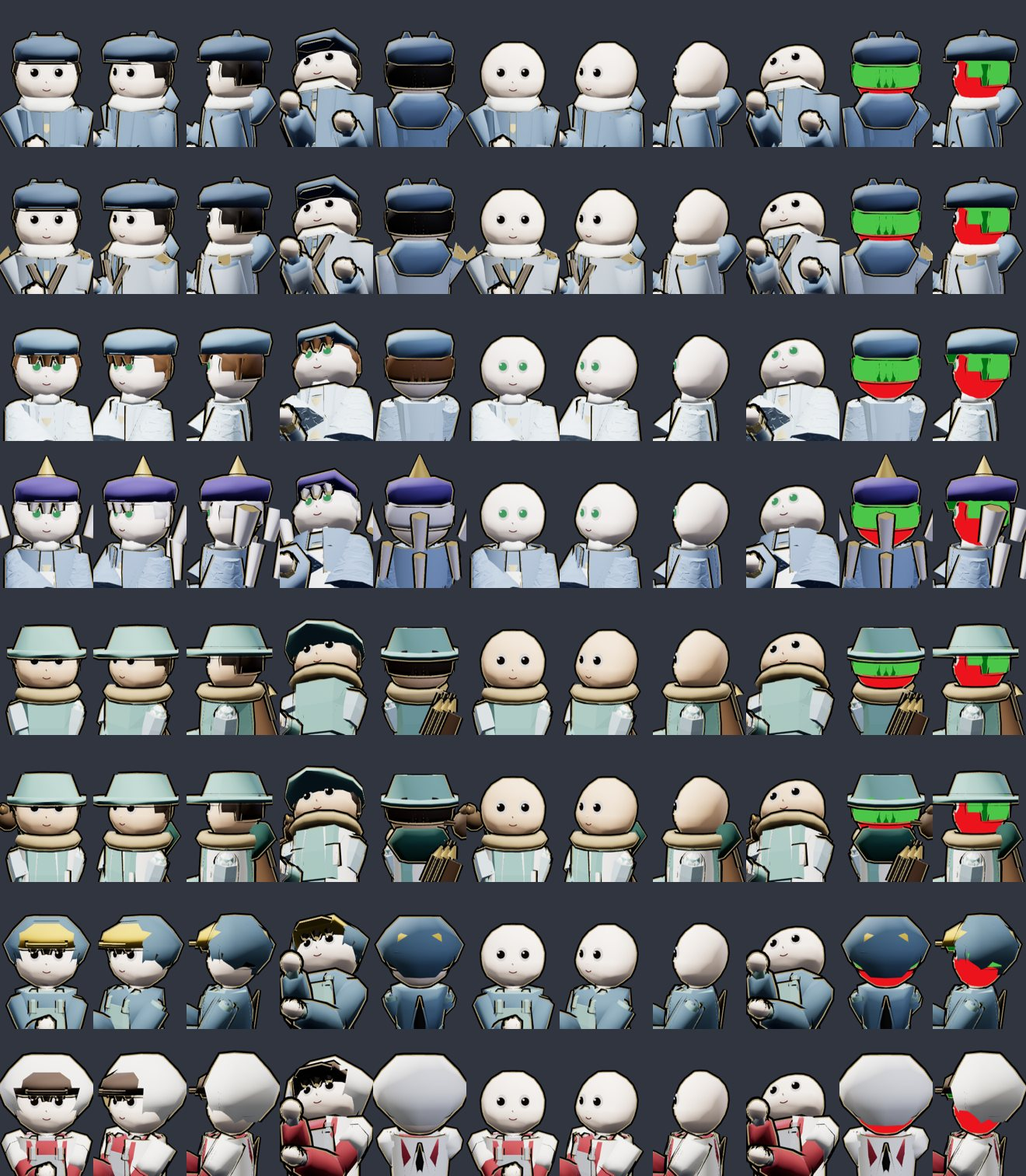
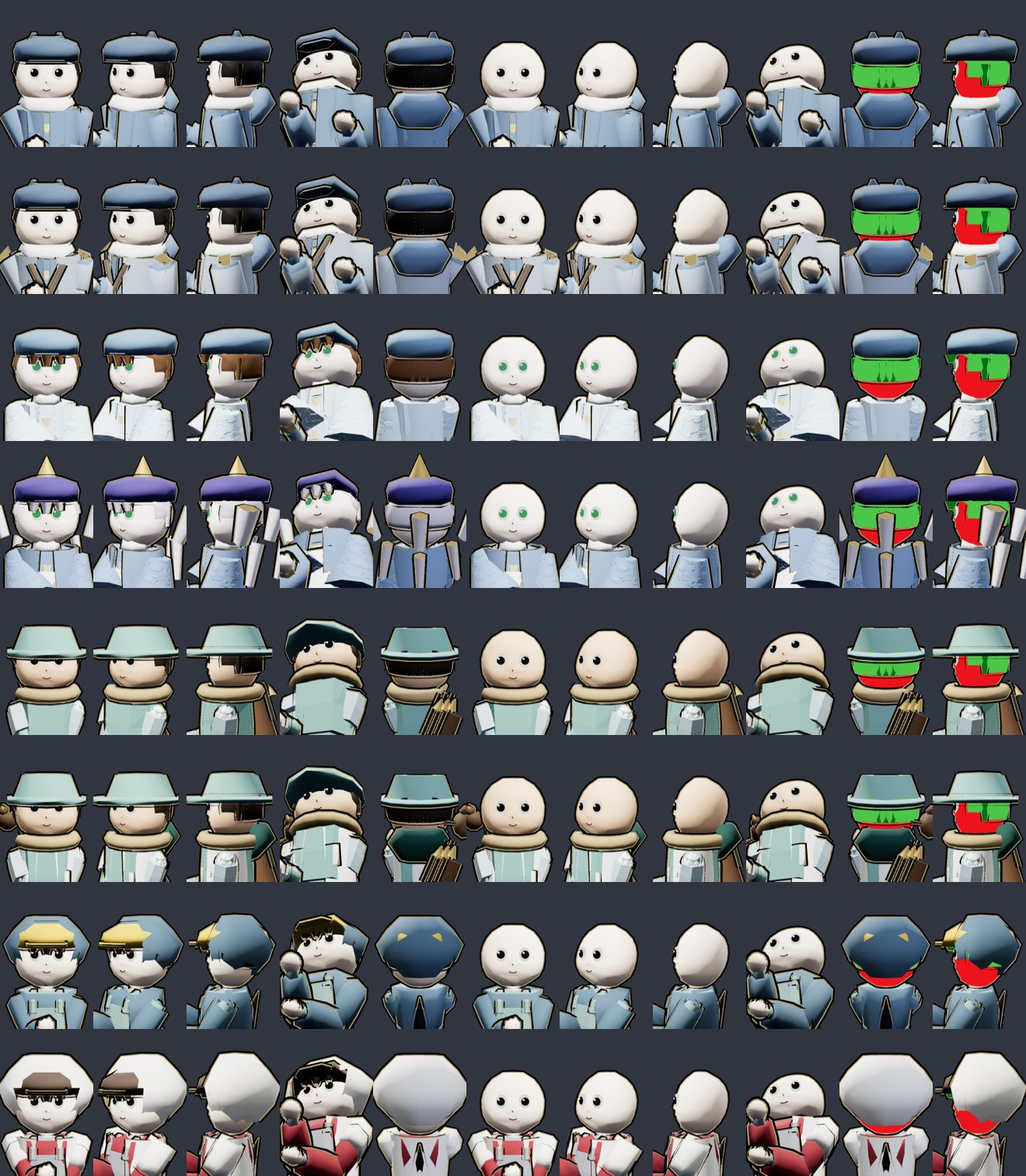
feat(character): T-2R-3 再修正 Review 反映（顔の前側だけ 20 点、鼻の下の段、頬の重みの分散、口の板を曲面に）
Claude-Session: https://claude.ai/code/session_01E5HtvtZnZXQW2TYqKrPCHQ

diff --git a/src/legacy/parts/05-rendering-rig.js b/src/legacy/parts/05-rendering-rig.js
@@ -747,37 +747,37 @@
   /* CHARACTER-VIS-002 T-2R-3(DEC-038 H-1 = O1: 既存の頭のメッシュの拡張): 4職(と上位4職)の頭。
      T-1 の頭(HEAD_SECTION_RATIOS_SOFT、8 点 × 5 段・奥行きが幅の 0.68 倍・顔の前面が平らな 1 枚)は、
      Human Review B「顔が平面的で輪郭が不自然」の原因だった(.ai/reports/CHARACTER-VIS-002-T2-human-review.md §2)。
-     ここでは同じ Loft の仕組みのまま、断面を 16 点 × 10 段にし、各段を「前半分・後ろ半分で別の深さと丸みを持つ
+     ここでは同じ Loft の仕組みのまま、断面を 20 点 × 12 段にし(T-2R-3 の最初は 16 点 × 10 段、下の再修正で増やした)、各段を「前半分・後ろ半分で別の深さと丸みを持つ
      超楕円」で作る(headSectionPointsV2):
        widthMul … 半幅(headR 比)。頬・目の高さ(0.54)が最大。被り物の下(0.72 より上)は帽子の内側に収まる幅
        frontMul … 顔の中心線の前への深さ(headR 比)。額 → 鼻筋 → 口元 → 顎先の横顔の線
        backMul  … 後頭部の深さ(headR 比)。T-1 の 0.83 より深く、丸い頭蓋
        nf / nb  … 前 / 後ろの丸みの指数(2 = 楕円。大きいほど角が張る)。頬・口元の段は 2.5 で頬がふっくら、
                   額・頭頂・顎は 2.0〜2.2 で丸い。顔は平らな板にならず、単純な球にもならない
-       socket   … 目の高さの段で、鼻筋の両側(16 点の 1 番目と 15 番目、目の中心の少し外)を奥へ下げる量(headR 比)。
+       socket   … 目の高さの段で、鼻筋の両側(11.25°・22.5°・33.75° に 0.5 / 1 / 0.6、目の中心のまわり)を奥へ下げる量(headR 比)。
                   鼻筋が残り、目のまわりに奥行きができる
      寸法はすべて o.width(= headR)基準で、o.depth(HEAD_DEPTH_MUL)は使わない(奥行きは frontMul / backMul で直接
      決める。HEAD_DEPTH_MUL を変えても 4職の頭は変わらない: T-2R-3 Review N-3)。
      影の旅人・敵・NPC は既定の HEAD_SECTION_RATIOS のまま(共通の関数の既定値は変えない: T-0)。
      髪の殻・顔の部品・被り物の判定は headSectionPoints / headOutlineAt / headRatioAt を通して自動で追従する */
-  const HEAD_RING_POINTS_V2 = 16;
   /* T-2R-3 再修正(Human Review 2026-11-28: 45° で頬の膨らみと奥行き、横顔で鼻・口元・顎の前後の立体が不足)。
      頭蓋・後頭部・正面の輪郭・下からの接続(Human が合格とした部分)は変えず、顔の部分だけを足す:
-       center     … 顔の中心線の点(k = 0)だけを前へ出す量(headR 比)。横顔の線: 顎先 → 顎の窪み → 下唇 → 口元 →
-                    鼻の下 → 鼻先の高さ(最も前)→ 鼻の付け根(目の高さ)→ 眉 → 額
-       centerSide … center のうち鼻筋の両隣(k = 1・15)にも掛ける割合(口元は広く、鼻は狭く)
-       cheek      … 45°(k = 2・14)の点を外へ押し出す量(headR 比、67.5° の k = 3・13 には 0.3 倍)。頬の膨らみ
-     顔の中心線と 45° 付近だけを動かすので、横(90°)・後ろ・帽子の下の形と髪の殻の関係は変わらない。
-     下唇(0.24)と鼻の下(0.36)の段を足し、顔の前後の起伏を置く(10 段 → 12 段) */
+       center     … 顔の中心線(0°)を前へ出す量(headR 比)。横顔の線: 顎先 → 顎の窪み → 下唇 → 口元(膨らみ)→
+                    鼻の下(鼻先より奥へ引っ込む段)→ 鼻先(最も前)→ 鼻の付け根(目の高さ)→ 眉 → 額
+       centerSide … center のうち 11.25° に掛ける割合(22.5° にはその 2 乗)。口元は広く(0.55〜0.62)、鼻は細く(0.25)
+       cheek      … 頬を外へ押し出す量(headR 比)。22.5°・33.75°・45°・67.5° に 0.35 / 0.75 / 1 / 0.45 で分ける
+     重みは headV2Weights。顔の前側(67.5° より前)だけを動かすので、横(90°)・後ろ・帽子の下(0.66 より上は不変)の形と
+     髪の殻の関係は変わらない。下唇(0.24)と鼻の下(0.36)の段を足し(10 段 → 12 段)、Review M-1 で顔の前側だけ点を
+     足した(16 → 20 点: ±11.25°・±33.75°)。追加の段の幅・後ろの深さ・指数は上下の段の中間(横・後ろの差 ≤ 0.005 headR) */
   const HEAD_SECTIONS_V2 = {
     chinBase:  { yFrac:0.00, widthMul:0.40, frontMul:0.34, backMul:0.30, nf:2.0, nb:2.0, socket:0,     center:0,     centerSide:0,    cheek:0     }, // 顎の下
-    chin:      { yFrac:0.08, widthMul:0.64, frontMul:0.56, backMul:0.52, nf:2.2, nb:2.0, socket:0,     center:0.045, centerSide:0.30, cheek:0     }, // 顎先(少し前へ、小さく丸い)
-    jaw:       { yFrac:0.18, widthMul:0.89, frontMul:0.70, backMul:0.70, nf:2.6, nb:2.1, socket:0,     center:-0.01, centerSide:0.30, cheek:0.01 }, // 顎の窪み(下唇から顎先へ後ろへ下がる)・下頬
-    lowerLip:  { yFrac:0.24, widthMul:0.95, frontMul:0.73, backMul:0.77, nf:2.6, nb:2.1, socket:0,     center:0.05, centerSide:0.40, cheek:0.025 }, // 下唇
-    mouth:     { yFrac:0.30, widthMul:1.00, frontMul:0.76, backMul:0.84, nf:2.6, nb:2.1, socket:0,     center:0.075, centerSide:0.45, cheek:0.045 }, // 口元(前への膨らみ)・頬
-    subNose:   { yFrac:0.36, widthMul:1.03, frontMul:0.77, backMul:0.88, nf:2.5, nb:2.1, socket:0,     center:0.08, centerSide:0.35, cheek:0.065 }, // 鼻の下(口元と鼻をつなぐ)
-    noseBase:  { yFrac:0.42, widthMul:1.05, frontMul:0.78, backMul:0.92, nf:2.4, nb:2.1, socket:0,     center:0.085, centerSide:0.30, cheek:0.07 }, // 鼻先の高さ(横顔で最も前)・頬骨
-    eye:       { yFrac:0.54, widthMul:1.06, frontMul:0.76, backMul:0.95, nf:2.3, nb:2.1, socket:0.040, center:0.04, centerSide:0.00, cheek:0.035 }, // 鼻の付け根・眼窩(最大幅)
+    chin:      { yFrac:0.08, widthMul:0.64, frontMul:0.56, backMul:0.52, nf:2.2, nb:2.0, socket:0,     center:0.075, centerSide:0.40, cheek:0     }, // 顎先(少し前へ、小さく丸い)
+    jaw:       { yFrac:0.18, widthMul:0.89, frontMul:0.70, backMul:0.70, nf:2.6, nb:2.1, socket:0,     center:-0.03, centerSide:0.45, cheek:0.02 }, // 顎の窪み(下唇から顎先へ後ろへ下がる)・下頬
+    lowerLip:  { yFrac:0.24, widthMul:0.945, frontMul:0.73, backMul:0.77, nf:2.6, nb:2.1, socket:0,     center:0.04, centerSide:0.55, cheek:0.035 }, // 下唇
+    mouth:     { yFrac:0.30, widthMul:1.00, frontMul:0.76, backMul:0.84, nf:2.6, nb:2.1, socket:0,     center:0.06, centerSide:0.62, cheek:0.055 }, // 口元(前への膨らみ)・頬
+    subNose:   { yFrac:0.36, widthMul:1.025, frontMul:0.77, backMul:0.88, nf:2.5, nb:2.1, socket:0,     center:0.035, centerSide:0.55, cheek:0.065 }, // 鼻の下(口元と鼻をつなぐ)
+    noseBase:  { yFrac:0.42, widthMul:1.05, frontMul:0.78, backMul:0.92, nf:2.4, nb:2.1, socket:0,     center:0.1, centerSide:0.25, cheek:0.065 }, // 鼻先の高さ(横顔で最も前)・頬骨
+    eye:       { yFrac:0.54, widthMul:1.06, frontMul:0.76, backMul:0.95, nf:2.3, nb:2.1, socket:0.040, center:0.05, centerSide:0.15, cheek:0.035 }, // 鼻の付け根・眼窩(最大幅)
     brow:      { yFrac:0.66, widthMul:1.00, frontMul:0.74, backMul:0.93, nf:2.2, nb:2.1, socket:0.010, center:0,     centerSide:0,    cheek:0     }, // 眉の骨(眉は描かない: E-3 = B)
     forehead:  { yFrac:0.78, widthMul:0.88, frontMul:0.64, backMul:0.84, nf:2.1, nb:2.1, socket:0,     center:0,     centerSide:0,    cheek:0     }, // 額(帽子の内側)
     upperHead: { yFrac:0.89, widthMul:0.70, frontMul:0.46, backMul:0.64, nf:2.0, nb:2.0, socket:0,     center:0,     centerSide:0,    cheek:0     },
@@ -786,31 +786,43 @@
   const isHeadV2 = r => r && r.frontMul != null;
   const sgnPow = (v, e) => Math.sign(v) * Math.pow(Math.abs(v), e);
   /* 16 点の断面(巻き順は HEAD_HEX_TEMPLATE と同じ「前 → 左 → 後ろ → 右」。k = 0 が顔の中心線) */
+  /* 断面の点の角度(顔の中心線からの度。巻き順は HEAD_HEX_TEMPLATE と同じ「前 → 左 → 後ろ → 右」)。
+     T-2R-3 再修正(Review M-1): 顔の前側だけ点を足す(±11.25°・±33.75°)。横・後ろ(67.5° より後ろ)の角度は 16 点の時と同じ */
+  const HEAD_V2_ANGLES = [0, 11.25, 22.5, 33.75, 45, 67.5, 90, 112.5, 135, 157.5, 180];
+  const HEAD_V2_RING_DEGS = (()=>{ const a = [...HEAD_V2_ANGLES]; for(let i=HEAD_V2_ANGLES.length-2;i>=1;i--) a.push(360 - HEAD_V2_ANGLES[i]); return a; })();
+  const HEAD_RING_POINTS_V2 = HEAD_V2_RING_DEGS.length;   // 20
+  /* 角度ごとの重み(左右対称、度は 0〜180):
+       center … 中心線を前へ(0° = 1、11.25° = centerSide、22.5° = centerSide の 2 乗: 鼻筋は細く、口元は広く)
+       cheek  … 頬を外へ(22.5° = 0.35、33.75° = 0.75、45° = 1、67.5° = 0.45: 1 点に偏らず丸く。Review S-1)
+       socket … 眼窩を奥へ(11.25° = 0.5、22.5° = 1、33.75° = 0.6) */
+  function headV2Weights(deg, r){
+    const cs = r.centerSide || 0;
+    return {
+      center: deg === 0 ? 1 : deg === 11.25 ? cs : deg === 22.5 ? cs*cs : 0,
+      cheek:  deg === 22.5 ? 0.35 : deg === 33.75 ? 0.75 : deg === 45 ? 1 : deg === 67.5 ? 0.45 : 0,
+      socket: deg === 11.25 ? 0.5 : deg === 22.5 ? 1 : deg === 33.75 ? 0.6 : 0,
+    };
+  }
   function headSectionPointsV2(o, r){
-    const W = o.width, n = HEAD_RING_POINTS_V2;
+    const W = o.width;
     const hw = W*r.widthMul, hf = W*r.frontMul, hb = W*r.backMul;
-    const pts = [];
-    for(let k=0;k<n;k++){
-      const th = -k*Math.PI*2/n, sn = Math.sin(th), cs = Math.cos(th);
+    return HEAD_V2_RING_DEGS.map(degFull=>{
+      const th = -degFull*Math.PI/180, sn = Math.sin(th), cs = Math.cos(th);
       const front = cs >= 0;
       const e = 2/(front ? r.nf : r.nb);
       let x = hw*sgnPow(sn, e);
       let z = (front ? hf : hb)*sgnPow(cs, e);
-      if(r.socket && (k === 1 || k === n-1)) z -= W*r.socket;
-      // 顔の中心線(と鼻筋の両隣)を前へ: 鼻先・口元・顎の前後の起伏(T-2R-3 再修正)
-      if(r.center){
-        if(k === 0) z += W*r.center;
-        else if(k === 1 || k === n-1) z += W*r.center*(r.centerSide || 0);
-      }
-      // 頬の膨らみ: 45°(と 67.5° に少し)の点を外へ
-      if(r.cheek){
-        const f = (k === 2 || k === n-2) ? 1 : (k === 3 || k === n-3) ? 0.3 : 0;
-        if(f){ const len = Math.hypot(x, z) || 1; x += x/len*W*r.cheek*f; z += z/len*W*r.cheek*f; }
-      }
-      pts.push([x, z]);
-    }
-    return pts;
+      const deg = degFull > 180 ? 360 - degFull : degFull;
+      const w = headV2Weights(deg, r);
+      if(r.socket) z -= W*r.socket*w.socket;
+      // 顔の中心線を前へ: 鼻先・口元・顎の前後の起伏(T-2R-3 再修正)
+      if(r.center) z += W*r.center*w.center;
+      // 頬の膨らみ
+      if(r.cheek && w.cheek){ const len = Math.hypot(x, z) || 1; x += x/len*W*r.cheek*w.cheek; z += z/len*W*r.cheek*w.cheek; }
+      return [x, z];
+    });
   }
+
 
   /* makeCharacterHead({width, depth, height}): makeCharacterForearm()と
      同じ考え方の、頭部専用Loft生成ヘルパー。widthとdepthは半幅・半厚みの
@@ -893,7 +905,8 @@
     const pts = headSectionPointsV2(o, r);
     const n = pts.length;
     // 顔側(k = 0 → n/4 と k = 0 → 3n/4)の点を |x| の小さい順に並べた片側の列(左右対称)
-    const half = []; for(let k=0;k<=n/4;k++) half.push([Math.abs(pts[k][0]), pts[k][1]]);
+    const half = []; HEAD_V2_RING_DEGS.forEach((d, k)=>{ if(d <= 90) half.push([Math.abs(pts[k][0]), pts[k][1]]); });
+    half.sort((p, q)=> p[0] - q[0]);
     const frontZAt = (x)=>{
       const ax = Math.abs(x);
       for(let i=0;i<half.length-1;i++){

diff --git a/tests/character-visual-budget.spec.js b/tests/character-visual-budget.spec.js
@@ -93,16 +93,17 @@ const PROBE = `
    8 点 × 4 段 → 16 点 × 7 段にした。描画の数(本体・全体)と Material は変わらない。三角形は 1 人 +1600
    (頭 +240・髪の殻 +160 = +400 が、本体・輪郭線 2 枚・X 線シェルの 4 つで描かれる)。影の旅人は不変。
    T-2R-3 再修正(Human Review: 45° の頬・横顔の鼻・口元・顎): 頭に下唇・鼻の下の 2 段を足し 10 段 → 12 段、
-   三角形はさらに 1 人 +256(頭 +64 × 4)。T-2 からの合計 +1856 */
+   三角形はさらに 1 人 +256(頭 +64 × 4)。Review M-1 で顔の前側だけ点を足し(±11.25°・±33.75°、16 → 20 点。
+   横・後ろの点は同じ)、頭 +92・髪の殻 +60 = +152 × 4 = +608。T-2 からの合計 +2464(剣士 14,916 → 17,380) */
 const BUDGET = [
-  {key:'warrior', job:null,           name:'剣士',         body:82, total:292, tris:16772, mats:21},
-  {key:'warrior', job:'battleKnight', name:'戦騎士',       body:91, total:328, tris:18348, mats:24},
-  {key:'mage',    job:null,           name:'魔法使い',     body:74, total:269, tris:17104, mats:20},
-  {key:'mage',    job:'archmage',     name:'魔導士',       body:89, total:329, tris:18512, mats:22},
-  {key:'archer',  job:null,           name:'弓師',         body:78, total:285, tris:17252, mats:23},
-  {key:'archer',  job:'hawkEye',      name:'鷹の目',       body:88, total:325, tris:19076, mats:27},
-  {key:'rogue',   job:null,           name:'盗賊',         body:80, total:293, tris:16488, mats:24},
-  {key:'rogue',   job:'berserker',    name:'バーサーカー', body:85, total:313, tris:17264, mats:26},
+  {key:'warrior', job:null,           name:'剣士',         body:82, total:292, tris:17380, mats:21},
+  {key:'warrior', job:'battleKnight', name:'戦騎士',       body:91, total:328, tris:18956, mats:24},
+  {key:'mage',    job:null,           name:'魔法使い',     body:74, total:269, tris:17712, mats:20},
+  {key:'mage',    job:'archmage',     name:'魔導士',       body:89, total:329, tris:19120, mats:22},
+  {key:'archer',  job:null,           name:'弓師',         body:78, total:285, tris:17860, mats:23},
+  {key:'archer',  job:'hawkEye',      name:'鷹の目',       body:88, total:325, tris:19684, mats:27},
+  {key:'rogue',   job:null,           name:'盗賊',         body:80, total:293, tris:17096, mats:24},
+  {key:'rogue',   job:'berserker',    name:'バーサーカー', body:85, total:313, tris:17872, mats:26},
 ];
 const WANDERER = {
   mesh: {body:82, total:322, tris:15508, mats:16},

diff --git a/src/legacy/parts/06-player-enemy.js b/src/legacy/parts/06-player-enemy.js
@@ -1009,8 +1009,18 @@
       const MOUTH_W = headR*0.13, mouthPts = [];
       for(let i=0;i<=8;i++){ const t = -1 + 2*i/8; mouthPts.push({x:t*MOUTH_W, y:-(1 - t*t)*MOUTH_W*0.35}); }
       for(let i=8;i>=0;i--){ const t = -1 + 2*i/8; mouthPts.push({x:t*MOUTH_W*0.9, y:-(1 - t*t)*MOUTH_W*0.35 + MOUTH_W*0.16}); }
-      const mouth = new THREE.Mesh(makePlate(mouthPts, {thickness:0.004}), new THREE.MeshBasicMaterial({color:0x6a2e2a}));
-      mouth.position.set(0, yAt(0.27), headOut(0.27).frontZ + 0.002);
+      const mouthGeo = makePlate(mouthPts, {thickness:0.004});
+      /* 4職(T-2R-3 再修正、Review S-2): 顔の面は中心線から左右へ奥へ回るので、平らな板のままでは両端が面から浮く。
+         板の頂点を、その横位置の顔の面の深さ(frontZAt)に合わせて奥へ曲げる */
+      const mouthOut = headOut(0.27);
+      if(mouthOut.frontZAt){
+        const pa = mouthGeo.attributes.position;
+        for(let i=0;i<pa.count;i++) pa.setZ(i, pa.getZ(i) + mouthOut.frontZAt(pa.getX(i)) - mouthOut.frontZ);
+        pa.needsUpdate = true;
+        mouthGeo.computeVertexNormals();
+      }
+      const mouth = new THREE.Mesh(mouthGeo, new THREE.MeshBasicMaterial({color:0x6a2e2a}));
+      mouth.position.set(0, yAt(0.27), mouthOut.frontZ + 0.002);
       mouth.userData.noOutline = true;
       head.add(mouth);
       playerMixerParts.faceParts = [nose, mouth];

diff --git a/.ai/reports/CHARACTER-VIS-002-T2R3b-review.md b/.ai/reports/CHARACTER-VIS-002-T2R3b-review.md
@@ -1,0 +1,87 @@
+# CHARACTER-VIS-002 T-2R-3 再修正 Review
+
+## Review Target
+| 項目 | 値 |
+| --- | --- |
+| Task ID | CHARACTER-VIS-002（T-2R-3 再修正、Human Review 2026-11-28 iPhone の 45°・横顔 未達への対応）|
+| Branch | claude/character-vis-002-t2 |
+| Reviewed SHA | `9e57e29` |
+| Diff range | `2b33343..9e57e29` |
+| Independence | 別 Agent・別セッション（Implementer の判断過程は入力にしていない）|
+
+## Result
+**CHANGES_REQUIRED**
+
+技術面（メッシュの妥当性・合格項目の保持・貫通・襟との干渉・予算・テスト）は問題ない。差し戻しの理由は1点で、Human の指示した受入条件「横顔で鼻・口元・顎の前後の立体があり、鼻・口が貼り付けに見えない」を、比較画像からは満たしていると判断できないこと（M-1）。45° は改善しているが、頬が角張って見え、下顔面に多角形の陰影が出る（S-1）。前回の Round では Reviewer PASS の後に Human が同じ項目を「未達」とした。そのため今回は、造形の評価を Human の目視確認に先送りしない。
+
+## 1. 合格項目の保持（数値。変更前・後の Loft の面を、各高さで頂点を線形補間して比べた。単位 headR）
+| 範囲 | 結果 |
+| --- | --- |
+| 顎の下 0.00 | 変化なし（中心 0.34、最大幅 0.40）→ 下からの接続は不変 |
+| 0.66 以上（眉の骨・額・帽子の下 0.72 以上・頭頂）| **全 16 点で完全に不変**。帽子・髪の殻との関係は変わらない |
+| 横 90°（k=4/12）・後ろ（k=5〜11）| 元からある段の高さでは不変。ただし新しい段（0.24 / 0.36）とその間（0.21〜0.39）では **最大 +0.005 外へ**。新しい段の値が、前後の段の中間の超楕円と一致していないため（例: subNose widthMul 1.03。中間なら 1.025）|
+| 正面の輪郭（各高さの最大の \|x\|）| 0.24 と 0.36 で +0.005、0.21〜0.39 で +0.002〜0.003。他の高さは不変。頬を押した点（k=3 で \|x\|≈1.00）は k=4（1.05）を越えないので、正面の輪郭は k=4 のまま |
+| 顔の中心線（k=0）| 0.08 で +0.045、0.24 で +0.050、0.30 で +0.075、0.42 で +0.085、0.54 で +0.040、0.60 で +0.020。0.18 は −0.010 |
+| 断面の凸性・巻き順 | 12 段すべてで、k の順の x が単調。頬の押し（k=2/3）は x を追い越さず、自己交差は無い。凹みは目の段 0.54 の k=0→1→2（cross −0.006）だけで、意図した眼窩の socket |
+
+→ Human が合格とした正面・下から・後頭部・全身は、実質的に保たれている（差は 0.005 headR 以下）。ただし記録の「横（90°）・後頭部…の点は動かさない」は厳密には正しくない（S-3）。
+
+## 2. 顔の部品と新しい面（`headOutlineAt` の多角形の上で計算。headR 比）
+- 口（`06-player-enemy.js:1013`、yFrac 0.27、幅 ±0.13）: 板の両端と面との隙間が **0.019 → 0.029 に増えた**。中心線だけを前へ出したため、k=0→1 の傾きが急になった。前回の Review N-2（「口がわずかに浮く ≤0.015」）より悪化している（S-2）
+- 鼻（`:1005`、0.40）: 中心線の点に追従している（frontZ 0.777 → 0.860）。四角錐の底は面に埋まり、浮きは無い
+- 目（yFrac≈0.533）: 目の段の centerSide は 0。中心線を 0.04 前へ出した分、面の高さは内側の縁で +0.025、中心で +0.009、外側の縁で +0.007 上がる。白目の板は中心の値（+0.009）で動くので、**内側の縁が面に対して約 0.016 沈む**。白目の前面には元々 0.024〜0.033 の余裕があり、face-preview も PASS なので、今は問題としない（N-1）
+- `headOutlineAtV2.frontZ = pts[0][1]`（`05-rendering-rig.js:909`）: 実際の中心線の点と一致する。headRatioAt は center / centerSide / cheek も線形補間するので、段の間の高さ（0.27・0.40）でも Loft の面と一致することを確認した
+
+## 3. 陰影・輪郭線
+- Loft は index 付きで `computeVertexNormals`（`src/render/lowpoly-primitives.js`）。滑らかな陰影なので、中心線の 1 点だけを出しても、折れ目がはっきり線になるわけではない
+- ただし画像（`t2r3b-profile-before-after.jpg`）の変更後では、45° と正面の下顔面（口〜顎の高さ）に、多角形の帯状の陰影が増えている。45° の輪郭線は目〜鼻の高さで角が立ち、頬の膨らみが「丸み」ではなく「角」に見える。k=2 の 1 点を最大 0.07 外へ押し、k=3 には 0.3 倍しか掛けないため、16 点の 45° の頂点が尖る
+- 横顔の輪郭線（k=0）は段ごとの折れ線。12 段の間隔（0.06〜0.12 yFrac）では、鼻先を形づくる点が 0.42 の 1 点しかない
+
+## 4. 襟・首巻きとの干渉（頭の向きの限界）
+- 顔の確認のプレビューで 8 職について、headLookPivot を yaw ±38°・0、pitch ±20°・0 の 9 姿勢に回した。頭以外の描画メッシュの頂点のうち、頭（肌）の閉じた Loft の内側にあるものを光線の偶奇で数え、変更前（`2b33343`）と変更後で比べた
+- **8 職 × 9 姿勢のすべてで、変更前と同じ数**（中身は首の円柱の上端と、元からある襟の 1〜6 点）。顎・口元を前へ出したことで新しく食い込む襟・首巻き・マフラー・毛皮の襟・タートルネック・覆面は無い
+- 限界: この検査は「襟の頂点が頭の中に入る」形だけを見ている。襟の面の内側を頭の頂点が通る形は見ていない。顎の中心線の移動は最大 +0.045（yFrac 0.08、k=0/1 だけ）と小さく、画像の帽子あり 45°・横でも干渉は見えない
+
+## 5. 予算・記録
+- 段 12 × 16 点: 側面は (12−1)×16×2 = 352（前は 288）、差 +64。本体・輪郭線 2 枚・X 線の 4 つで +256。BUDGET の 8 行がすべて +256 であることを確認した。剣士 14,916 + 1,856 = 16,772 で、記録と一致
+- character-visual-budget.spec.js（影の旅人の不変を含む）PASS
+- 記録の表（中心線の深さ frontMul + center）は、計算値と一致する
+- Status History の最後の行は `REVIEWING → IMPLEMENTING`。その後の TESTING / REVIEWING の行は、Orchestrator が後で追記する前提（N-2）
+
+## 6. 造形の評価（画像からの率直な意見）
+- **正面**: 輪郭線はほぼ同じで、合格を保っている。下顔面に陰影の帯が少し増えたが、輪郭は崩れていない
+- **45°**: 頬骨から鼻の高さで前後の厚みが増し、「平らな顔」からは前進している。ただし頬は、45° の頂点 1 点が角として出る見え方。Human の言う「自然な丸み、頬骨から頬への滑らかな面、頬からこめかみ・顎への自然なつながり」には届いていない。**部分的に改善**
+- **横顔**: 変更前・後の差は、鼻の高さで輪郭がわずかに前へ出る程度で、シルエットはほぼ卵形のままに見える。中心線の値は 口元 0.835 → 鼻の下 0.85 → 鼻先 0.865 と単調に増えるだけ。鼻の下が鼻先より奥へ引っ込む段（鼻の裏側）が無いので、横顔では「鼻」と「口元」が区別されず、中顔面がなだらかに前へ傾いた形になる。鼻は四角錐の部品が面に載るだけで、Human が避けたい「貼り付け」の見え方が残る。口の両端は前より浮いた。下唇 → 顎の窪み → 顎先の起伏（0.78 → 0.69 → 0.605）は数値上はあるが、差が 0.02 程度のため画像ではほとんど読めない。**未達のままと判断する**
+- 実装者の記録にあるとおり、中心線を強く出すと、16 点では鼻先が尖り、折れ線が出る。これは 16 点・中心線の 1 点だけで鼻を作ろうとすることの限界で、値の調整だけでは解決しにくい。Human は顔の頂点を局所的に増やすことを許可している
+
+## Required Changes
+| # | ファイル / 箇所 | 問題（根拠）| 期待する状態 | 確認方法 |
+| --- | --- | --- | --- | --- |
+| M-1 | `src/legacy/parts/05-rendering-rig.js:772-813`（HEAD_SECTIONS_V2 の顔の段、headSectionPointsV2 の k=0/1 の処理）| 横顔で鼻・口元・顎の前後の立体が読めない（Human の指示: 鼻の付け根と先の差、丸い鼻先、鼻 → 口の滑らかなつながり、口元の前への膨らみ、下唇 → 顎の後退、貼り付けに見えない鼻・口）。中心線が口元 → 鼻先で単調で、鼻の下の後退が無い。変更前・後の横顔の画像の差が小さい | 横顔の輪郭線で「鼻先（最前）→ 鼻の下で一段奥へ → 口元で再び少し前 → 下唇 → 顎の窪み → 顎先」が読める。そのために、顔の前側の頂点を局所的に増やすことを推奨する。たとえば 0.18〜0.60 の段で ±11.25° の点を足す、または前側に点を寄せた 20〜24 点にする。鼻の段も足す（鼻先の下に鼻の下の段を置き、鼻先より奥にする）。こうすると、鼻筋を細く・高く（例 +0.12〜0.15）しても折れ目が出にくい。頭全体を前へ出したり大きくしたりはしない。0.66 以上・顎の下・90°・後ろは今回と同じく不変に保つ | 同じカメラ・倍率の横顔・45° の前 / 後の比較画像。表 1 と同じ方法で、合格項目の点の差が 0.005 以下であることを数値で確認。head-hair-penetration・budget（三角形の上限を更新）・face-preview・clothing・battle-knight の E2E、unit |
+
+## should-fix
+- **S-1** `05-rendering-rig.js:806-809`（頬の押し）: 45° の頂点 1 点（k=2/14）だけに最大 0.07 を掛け、k=3 は 0.3 倍、k=1 は 0 なので、45° で角が立ち、下顔面に多角形の陰影が出る。押す量を k=1〜3 に滑らかに分ける（例 0.5 / 1 / 0.6）か、M-1 で点を増やすときに頬の点も配置する。正面の輪郭線（k=4）を越えないことを数値で確認する
+- **S-2** `src/legacy/parts/06-player-enemy.js:1013`（口）: 板の両端の浮きが 0.019 → 0.029 headR に増えた。両端の z を `headOut(0.27).frontZAt(x)` に沿わせて曲げる（頂点ごとに z を与える）か、中心の z を下げて両端が面に触れるようにする。M-1 で鼻を作り直すときは、鼻（`:1005`）の部品の扱い（形状に吸収する / 小さくする）も合わせて見直す
+- **S-3** `.ai/tasks/CHARACTER-VIS-002.md:813`: 「横（90°）・後頭部…の点は動かさない」は正確ではない。新しい段 0.24 / 0.36 の付近で、側面・後ろが最大 0.005 headR 外へ出ている（両隣の段の中間の値と一致させれば不変にできる。例 subNose widthMul 1.025、lowerLip は backMul 0.77 で一致、widthMul 0.945）。値を合わせるか、記録を「≤0.005 headR」に直す
+
+## note
+- **N-1** 目（`06-player-enemy.js:902-903`）: 中心線を出したことで、白目の内側の縁が面に対して約 0.016 headR 沈む方向。今は余裕の範囲だが、M-1 で鼻の付け根（目の段の center）を上げるときは、白目の内側の縁と面の差を数値で確認する
+- **N-2** Status History に、再修正の TESTING / REVIEWING の行がまだ無い（Orchestrator が追記）
+- **N-3** 襟の干渉の検査（§4）は、襟の頂点が頭の内側に入るかだけを見ている。M-1 で顎・口元をさらに前へ出す場合は、逆向き（頭の頂点が襟の面を越える）も確認する
+- **N-4** 比較画像の「頭だけ 横」は、小さい画像だと後頭部寄りに見え、顔の輪郭が評価しにくい。Human に出すときは、横顔を高解像度にした `t2r3b-profile-before-after.jpg` を主にするとよい
+- 帽子を被ったときの見え方は、Human の確認がまだ（変更の範囲は 0.66 未満なので、帽子の下の形は変わっていない）
+
+## Tests run（使い捨ての git worktree `/tmp/rev-t2r3b` @9e57e29、Vite はポート 5391、確認後に worktree を削除）
+| テスト | 結果 |
+| --- | --- |
+| `npm run test:unit` | 2342 件: pass 2338 / fail 0 / skipped 4 |
+| tests/head-hair-penetration.spec.js | 1 passed |
+| tests/character-visual-budget.spec.js | 9 passed |
+| tests/face-preview.spec.js | 3 passed |
+| tests/character-clothing.spec.js | 9 passed |
+| tests/battle-knight-visual.spec.js | 1 passed |
+| E2E の合計 | 23 passed（2.6 分）|
+| 独自の検査: 襟の頂点が頭の内側に入る数（8 職 × 9 姿勢、`2b33343` と `9e57e29`、ポート 5391 / 5392）| 変更前と完全に同じ（新しい干渉は無い）|
+| 独自の検査: 段の点の前後比較・凸性・顔の部品の浮き（Node で `HEAD_SECTIONS_V2` / `headSectionPointsV2` / `headOutlineAt` を抜き出して計算）| §1・§2 の数値 |
+
+/home/user/-ARPG- では何も変更・commit・push していない。

diff --git a/.ai/tasks/CHARACTER-VIS-002.md b/.ai/tasks/CHARACTER-VIS-002.md
@@ -805,27 +805,30 @@ T-1〜T-6 は下の E-1・E-2 の回答待ち（`WAITING_APPROVAL`）。T-0 / T-
 | 帽子を被ったときの髪と頭の整合 | 未確認 |
 - T-2R-3 は Human の承認待ちのまま。合格した頭蓋・後頭部・正面の輪郭・下からの接続・全身は変えず、顔の部分だけを再修正する
 
-### 再修正の内容（`05-rendering-rig.js` の `HEAD_SECTIONS_V2` と `headSectionPointsV2`）
-- 段を 10 → 12（下唇 0.24・鼻の下 0.36 を追加）。各段に 3 つの値を追加（headR 比）:
-  - `center`: 顔の中心線の点（16 点の 0 番）だけを前へ出す量 → 横顔の線
-  - `centerSide`: `center` のうち鼻筋の両隣（1・15 番）に掛ける割合（口元 0.45 と広く、鼻 0.30 と狭く）→ 鼻・口元が尖らず丸く膨らむ
-  - `cheek`: 45°（2・14 番）の点を外へ押す量（67.5° の 3・13 番には 0.3 倍）→ 頬の膨らみ
-- 顔の中心線と 45° 付近だけを動かす。横（90°）・後頭部・帽子の下（0.72 より上）・顎の下（0.00）の点は動かさない（合格した正面の輪郭・下からの接続・後頭部の髪の関係を保つ）
+### 再修正の内容（`05-rendering-rig.js` の `HEAD_SECTIONS_V2`・`headSectionPointsV2`・`headV2Weights`、`06` の口）
+- 段を 10 → 12（下唇 0.24・鼻の下 0.36 を追加。幅・後ろの深さ・指数は上下の段の中間）
+- 点を 16 → 20（顔の前側だけ ±11.25°・±33.75° を追加。67.5° より後ろの角度は同じ）。Review M-1（顔の前側の頂点の密度）
+- 各段に 3 つの値（headR 比）。角度ごとの重みは `headV2Weights`:
+  - `center`: 顔の中心線（0°）を前へ。11.25° に `centerSide` 倍、22.5° にその 2 乗 → 鼻筋は細く（0.25）、口元は広く（0.55〜0.62）丸く膨らむ
+  - `cheek`: 頬を外へ。22.5° / 33.75° / 45° / 67.5° に 0.35 / 0.75 / 1 / 0.45 → 1 点に偏らず丸い頬（Review S-1）
+  - `socket`（既存）: 眼窩。11.25° / 22.5° / 33.75° に 0.5 / 1 / 0.6
+- 口の板を顔の曲面に沿って曲げた（板の各頂点の Z をその横位置の `frontZAt` に合わせる。Review S-2）
+- 顔の前側（67.5° より前）だけを動かす。0.66 より上（帽子の下を含む）・顎の下（0.00）・横（90°）・後ろの点は動かさない。追加の段の横・後ろは上下の段の補間との差 ≤ 0.005 headR（Review S-3）
 
 | 段 | yFrac | center | centerSide | cheek | 横顔の中心線の深さ（frontMul + center）|
 | --- | --- | --- | --- | --- | --- |
 | 顎の下 | 0.00 | 0 | 0 | 0 | 0.34 |
-| 顎先 | 0.08 | 0.045 | 0.30 | 0 | 0.605（少し前へ、小さく丸い）|
-| 顎の窪み・下頬 | 0.18 | -0.01 | 0.30 | 0.01 | 0.69（下唇から顎先へ後ろへ下がる）|
-| 下唇（新）| 0.24 | 0.05 | 0.40 | 0.025 | 0.78 |
-| 口元・頬 | 0.30 | 0.075 | 0.45 | 0.045 | 0.835（前への膨らみ）|
-| 鼻の下（新）| 0.36 | 0.08 | 0.35 | 0.065 | 0.85 |
-| 鼻先の高さ・頬骨 | 0.42 | 0.085 | 0.30 | 0.07 | 0.865（横顔で最も前）|
-| 鼻の付け根・眼窩 | 0.54 | 0.04 | 0 | 0.035 | 0.80（付け根と鼻先の差 0.065）|
+| 顎先 | 0.08 | 0.075 | 0.40 | 0 | 0.635 |
+| 顎の窪み・下頬 | 0.18 | -0.03 | 0.45 | 0.02 | 0.67（下唇から顎先へ後ろへ下がる）|
+| 下唇（新）| 0.24 | 0.04 | 0.55 | 0.035 | 0.77 |
+| 口元・頬 | 0.30 | 0.06 | 0.62 | 0.055 | 0.82（前への膨らみ）|
+| 鼻の下（新）| 0.36 | 0.035 | 0.55 | 0.065 | 0.805（鼻先より 0.075 奥へ引っ込む段）|
+| 鼻先・頬骨 | 0.42 | 0.10 | 0.25 | 0.065 | 0.88（横顔で最も前、鼻筋は細い）|
+| 鼻の付け根・眼窩 | 0.54 | 0.05 | 0.15 | 0.035 | 0.81（付け根と鼻先の差 0.07）|
 | 眉の骨 | 0.66 | 0 | 0 | 0 | 0.74 |
 | 額 | 0.78 | 0 | 0 | 0 | 0.64 |
-- 試して採用しなかった値: 頬を顎・下唇の段まで強く（0.04〜0.085）押すと、正面の顎の輪郭に頬の膨らみ（下ぶくれ）が出て、合格した正面の輪郭を崩した。中心線を強く（鼻 0.12・口元 0.10・顎の窪み -0.05）出すと、横顔で鼻先が尖り、口の下に横の折れ線が出た。頬の膨らみは目の下〜鼻の高さ（0.36〜0.42）を中心に、顎の窪みは浅くした
-- 口・鼻の部品（E-3 = B）の位置は `headOutlineAt().frontZ`（中心線の点）から決まるので、前へ出た顔の面に追従する。眉は足さない
+- 試して採用しなかった値: ①頬を顎・下唇の段まで強く押す → 正面の顎の輪郭に下ぶくれ。②中心線を強く（鼻 0.12・口元 0.10・顎の窪み -0.05〜-0.06）→ 横顔で鼻先が尖り、口元がすぼめた口のように膨らみ、口の下に横の折れ線。③16 点のまま中心線を出す → 鼻と口元の区別が付かない（Review M-1）。20 点にして鼻の下の段を置き、口元は広く・鼻は細く、顎の窪みは浅くした
+- 口・鼻の部品（E-3 = B）の位置は `headOutlineAt().frontZ`（中心線の点）から決まる。眉は足さない
 
 ### 比較画像（同じカメラ・倍率・照明）
 - `.ai/reports/CHARACTER-VIS-002-assets/t2r3b-profile-before-after.jpg`（剣士・弓師の頭だけ（髪・帽子・胴を隠す）、高解像度。左から 横顔 前 / 後・45° 前 / 後・正面 前 / 後）
@@ -833,7 +836,7 @@ T-1〜T-6 は下の E-1・E-2 の回答待ち（`WAITING_APPROVAL`）。T-0 / T-
 - `.ai/reports/CHARACTER-VIS-002-assets/t2r3b-8jobs-after.jpg`（変更後の 8 職: 帽子あり 正面・45°・横・下から・後頭部、頭だけ 正面・45°・横・下から、診断の後頭部・横）
 
 ### 描画の量（再修正）
-- 三角形: さらに 1 人 +256（頭の 2 段 × 16 点 × 2 = +64 が本体・輪郭線 2 枚・X 線の 4 つで描かれる）。T-2 からの合計 +1856（剣士 14,916 → 16,772、約 +12.4%）。描画の数・Material は不変
+- 三角形: 段の追加で 1 人 +256、前側の点の追加（16 → 20 点）で +608（頭 +92・髪の殻 +60 が本体・輪郭線 2 枚・X 線の 4 つで描かれる）。T-2 からの合計 **+2464**（剣士 14,916 → 17,380、約 +16.5%）。描画の数・Material は不変
 
 ## Status History
 | Date | Target | From → To | By | Note |
@@ -873,3 +876,4 @@ T-1〜T-6 は下の E-1・E-2 の回答待ち（`WAITING_APPROVAL`）。T-0 / T-
 | 2026-11-28 | T-2R-3 | IMPLEMENTING → TESTING → REVIEWING | Implementer / Reviewer | 実装（`3fc25d0`）・記録（`ea9c8cb`）。unit 2341・関連 E2E 93 PASS。Review **PASS**（`ea9c8cb`）、S-1・S-2・N-1・N-3 を反映。**Human の iPhone での目視確認待ち**、確認まで T-2R-4 へ進まない |
 | 2026-11-28 | T-2R-3 | REVIEWING（変更なし）| Reviewer | Review Round 2 **PASS**（Reviewed SHA `0338bef`）。追加した光線（生え際より上の全周・上から）は、頭を広げると前側の突き抜けを検出することを確認（変更前のコードに前側の突き抜けは無く、今後の回帰の防止）。note N-8（上からの光線は今の帽子の作りではほぼ重複）。Human の iPhone での目視確認待ち |
 | 2026-11-28 | T-2R-3 | REVIEWING → IMPLEMENTING | Human / Implementer | Human Review（iPhone）: 正面・下から・後頭部・全身 PASS、45°・横顔 未達、帽子は未確認。顔の部分（頬・鼻・口元・顎）だけを再修正 |
+| 2026-11-28 | T-2R-3 | IMPLEMENTING（変更なし）| Reviewer / Implementer | 再修正（`9e57e29`）の Review Round 1 = **CHANGES_REQUIRED**（`.ai/reports/CHARACTER-VIS-002-T2R3b-review.md`）。M-1 横顔の鼻・口元・顎がまだ読めない、S-1 頬が 45° の 1 点に偏る、S-2 口の板の端が浮く、S-3 記録。→ 顔の前側だけ 20 点に、鼻の下の段・重みの分散・口の板を曲げる・記録の修正 |

diff --git a/docs/CHARACTERS.md b/docs/CHARACTERS.md
@@ -188,8 +188,9 @@ CHARACTER-VIS-002 T-1 / DEC-036）で、衣服は既存の Loft
   武器を含まない（`hipY + height + headGap + headR`）。頭の高さは `headR × 2`。全高は 剣士 2.54 /
   魔法使い・弓師 2.40 / 盗賊 2.42（上位職は基礎職と同じ）。4.75 頭身は全高を変えず、頭を大きくした分を
   脚 6 割・胴 4 割で短くした（肩幅・手足の太さは変えない）。デバッグの Motion Preview の `HEADS` 行で確認できる
-- **頭の形**（4基礎職・上位4職、CHARACTER-VIS-002 T-2R-3 / DEC-038 H-1 = O1）: 16 点 × 10 段の断面
-  （`HEAD_SECTIONS_V2`）。各段は前半分・後ろ半分で別の深さと丸みを持つ超楕円で、顔の前面は平らな板ではなく
+- **頭の形**（4基礎職・上位4職、CHARACTER-VIS-002 T-2R-3 / DEC-038 H-1 = O1）: 20 点 × 12 段の断面
+  （`HEAD_SECTIONS_V2`。顔の前側は点を細かく）。横顔は額 → 鼻先（最も前）→ 鼻の下（奥へ引っ込む）→ 口元（膨らみ）→
+  顎の窪み → 顎先と前後に起伏し、45° では頬が丸く膨らむ。口の板は顔の曲面に沿って曲げる。各段は前半分・後ろ半分で別の深さと丸みを持つ超楕円で、顔の前面は平らな板ではなく
   鼻筋から頬へ丸く回る曲面、頬・口元はふっくら、顎は小さく丸く、後頭部は丸く深い（目の高さの前後の奥行きは
   幅の 0.81 倍）。目の高さで鼻筋の両側を少し奥へ下げ、目のまわりに奥行きを作る。単純な球にはしない。
   帽子の下（生え際より上）は帽子の内側に収まる幅。頭の高さ（`headR × 2`）と 4.75 頭身は同じ。目の奥行きは
